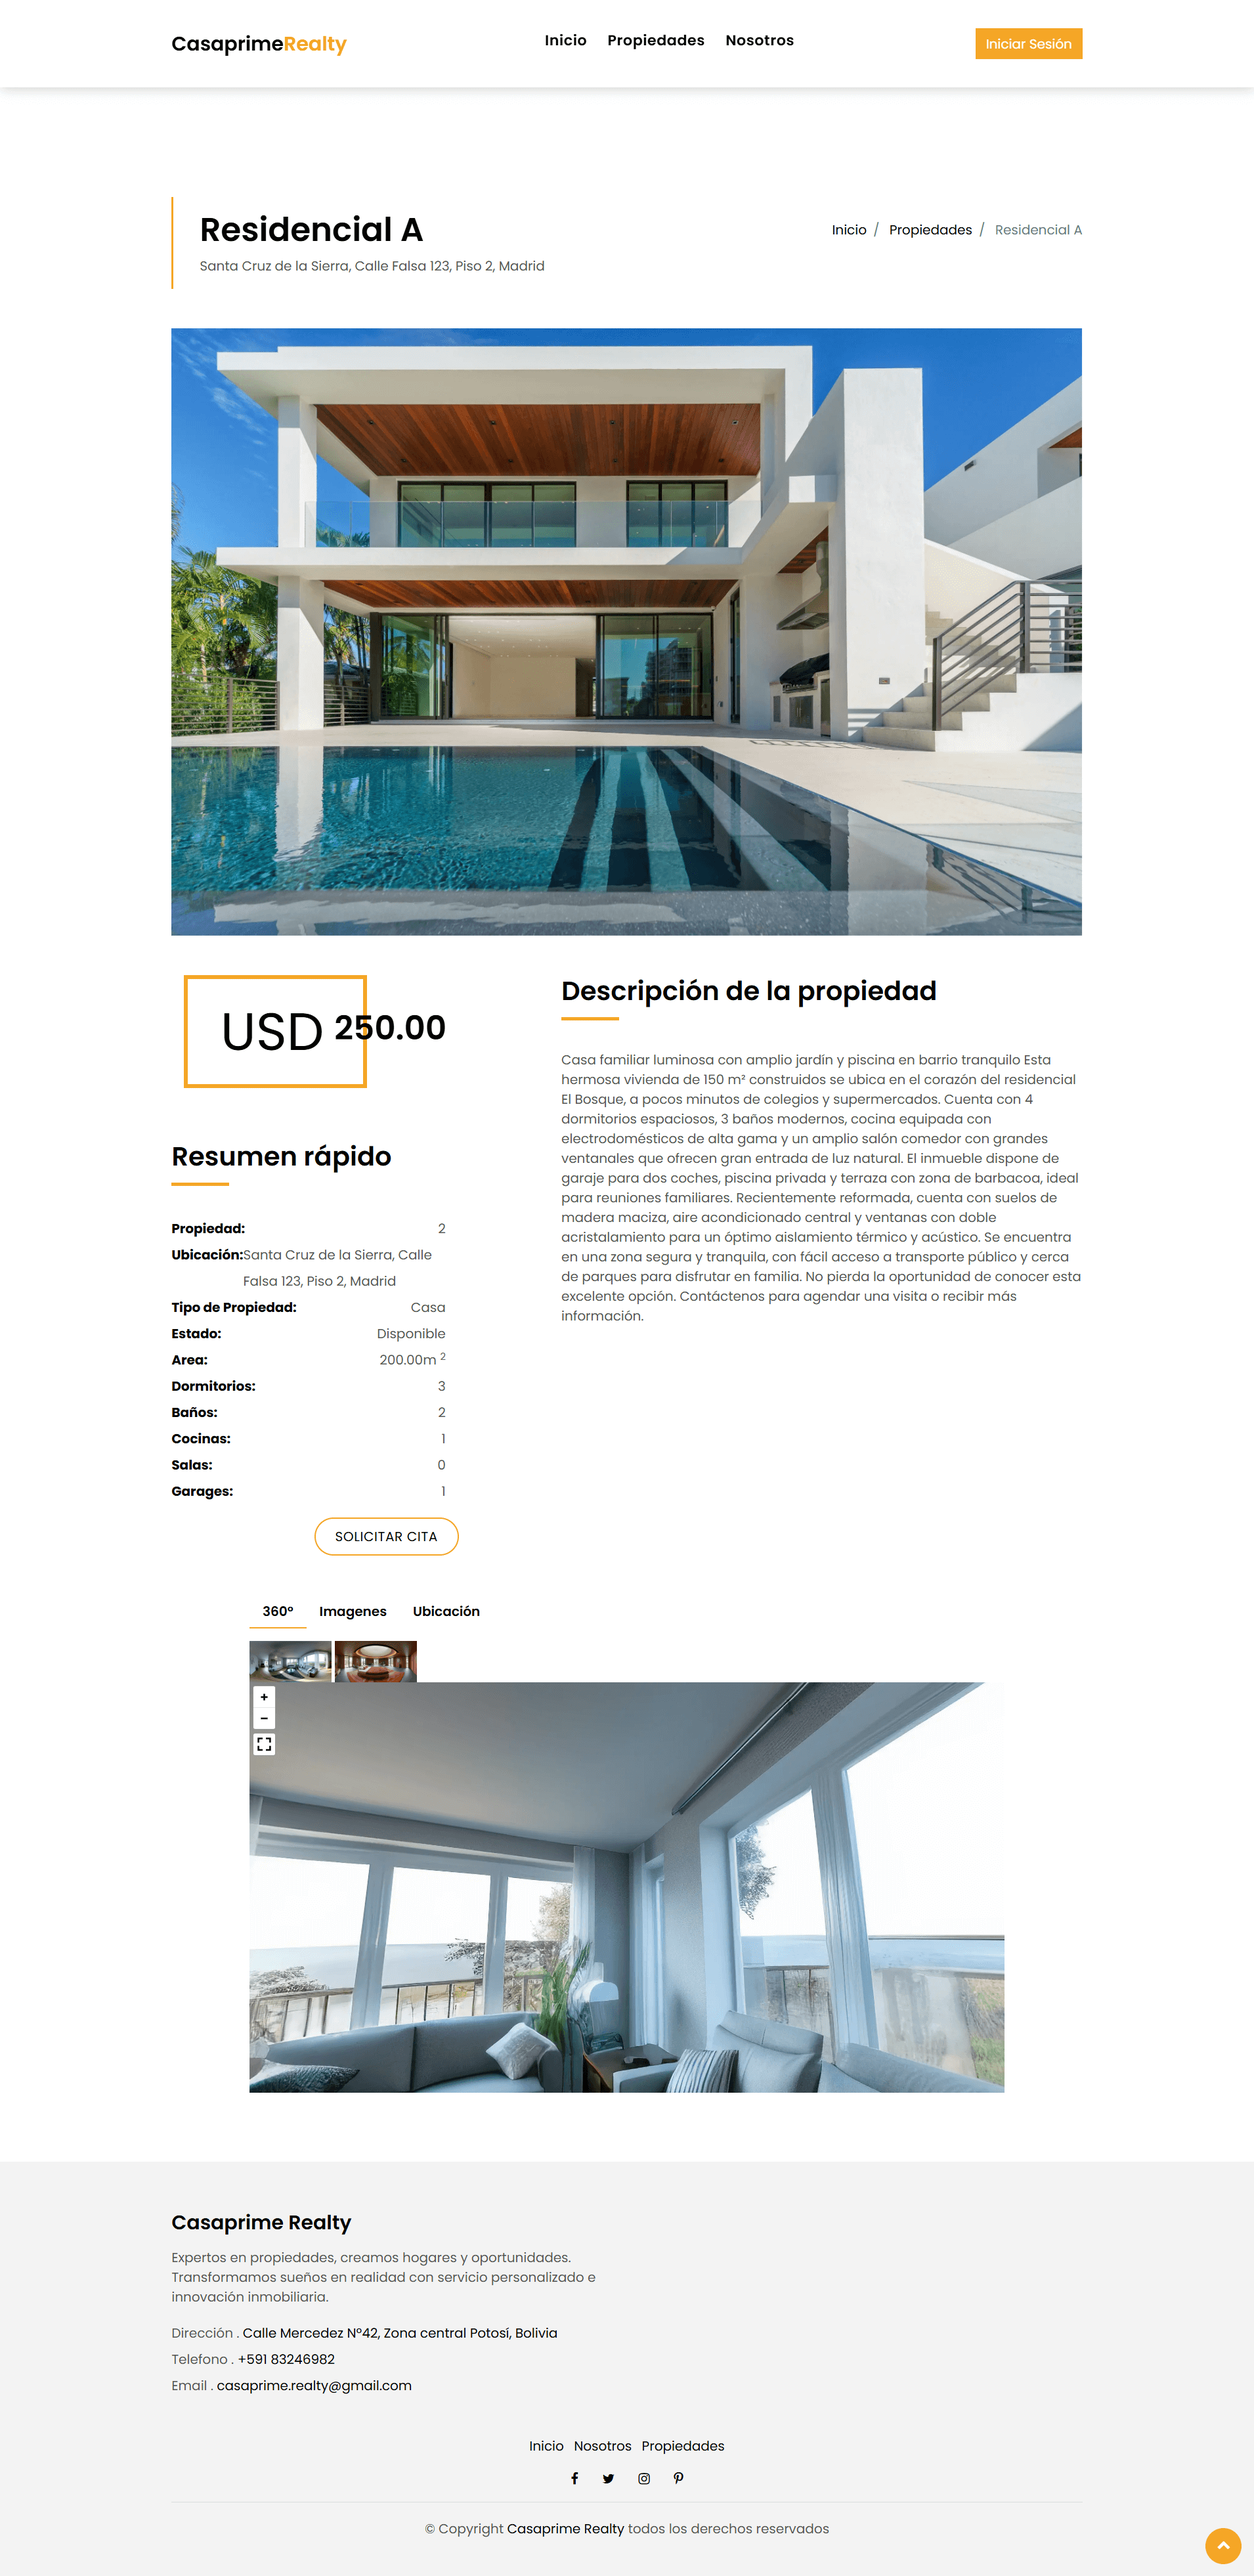
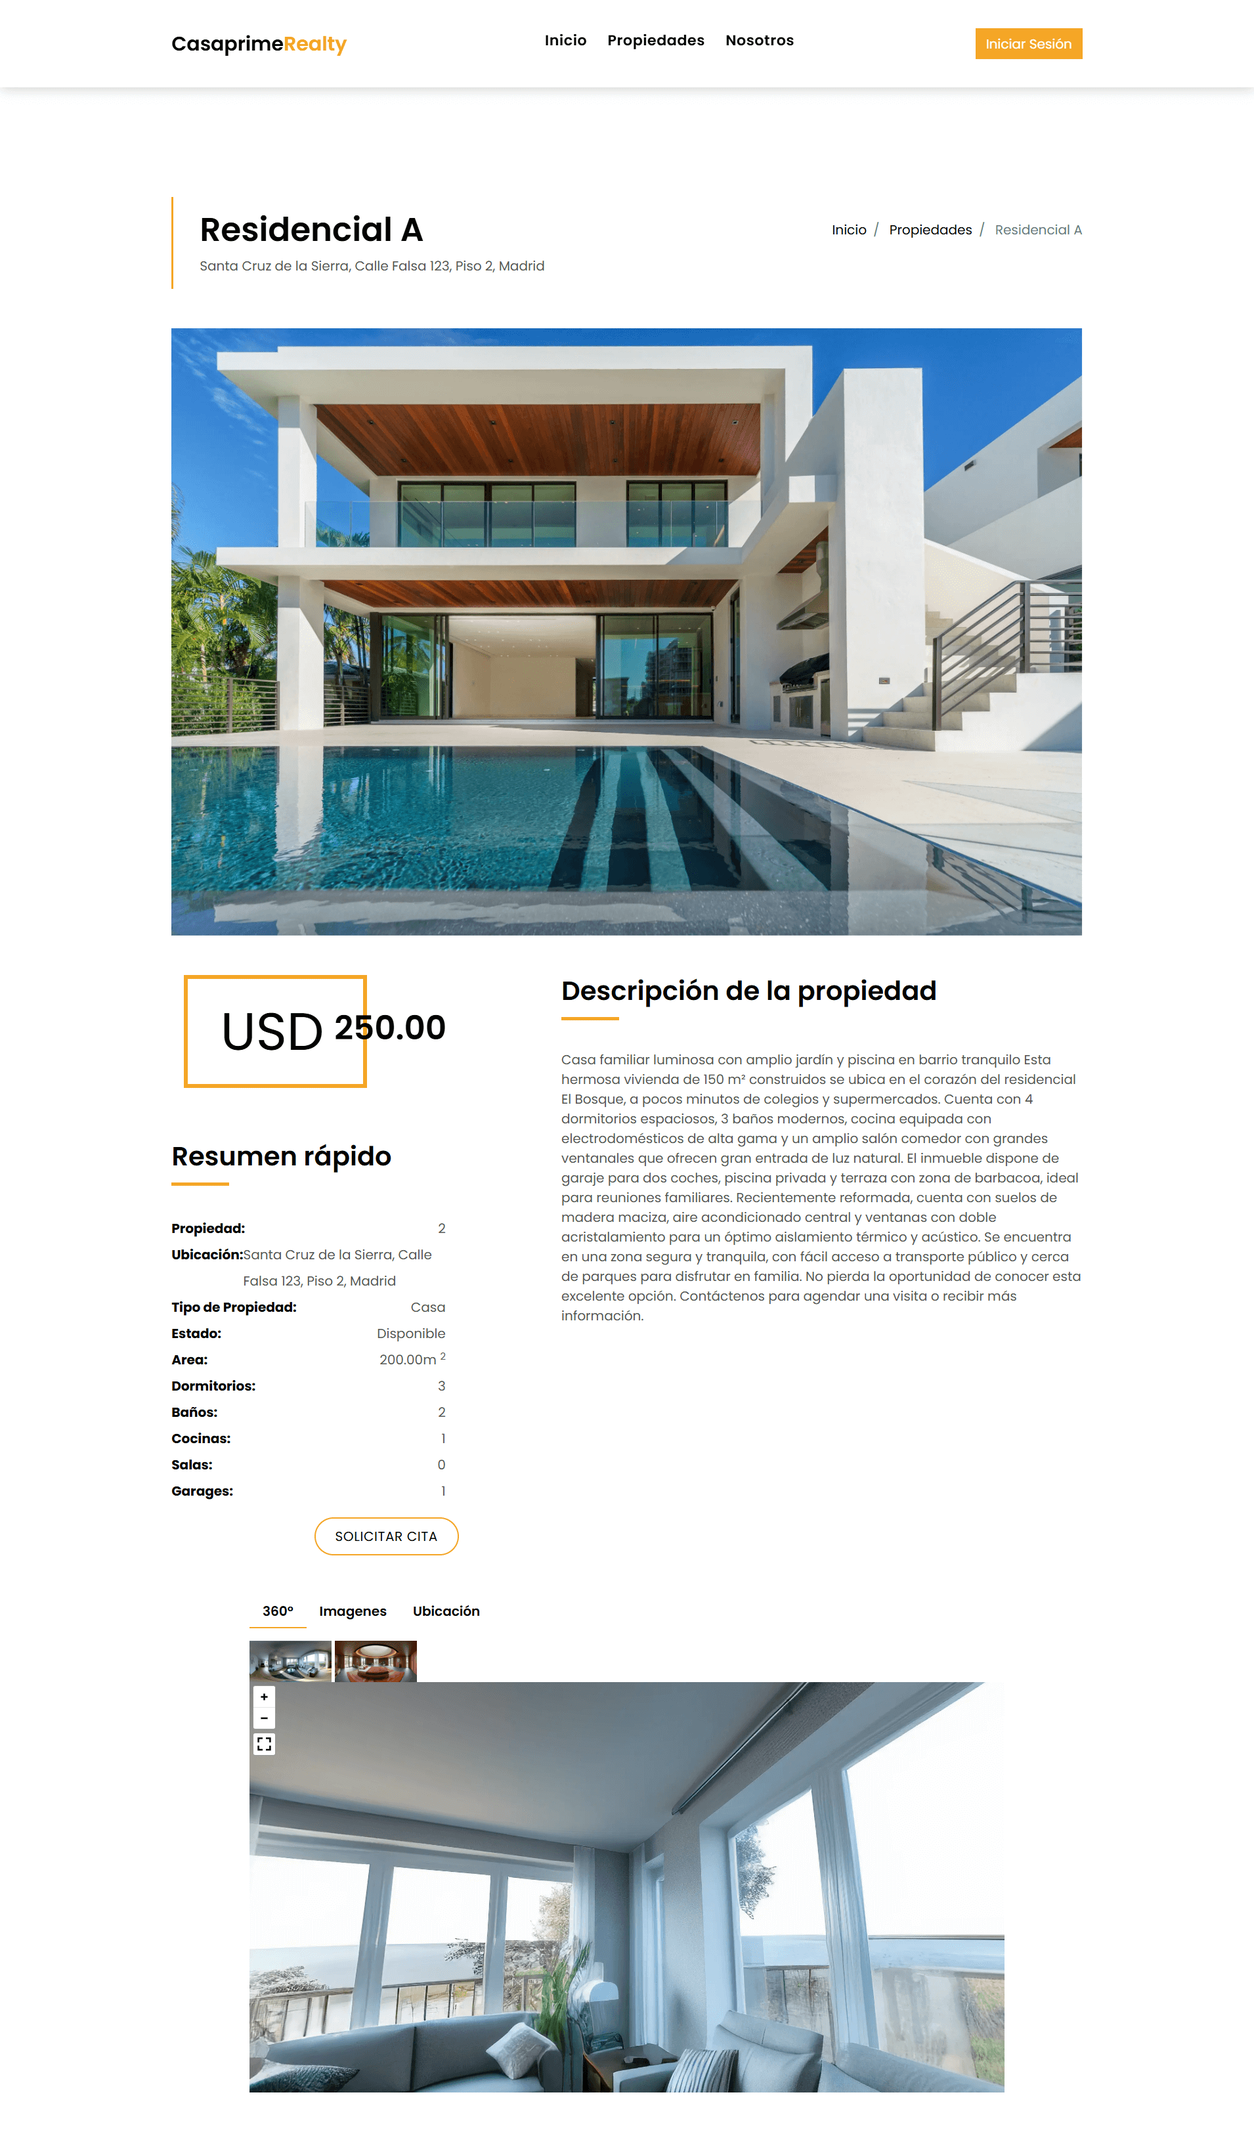
fix: Eliminar contenido sospechoso y ajustar la tabla de contenidos en el README

diff --git a/README.md b/README.md
@@ -1,26 +1,26 @@
-[⚠ Suspicious Content] # 📌 🏠 CasaPrime Realty
+📌 🏠 CasaPrime Realty
 
 > Sistema integral de gestión inmobiliaria
 
-![Banner del Proyecto](./assets/banner.png) <!-- opcional -->
+<!--[Banner del Proyecto](./assets/banner.png)  opcional -->
 
 ---
 
 ## 🧭 Tabla de Contenidos
 
-- [📌 Título del Proyecto](#-título-del-proyecto)
+<!-- [📌 Título del Proyecto](#-título-del-proyecto)-->
 - [🧭 Tabla de Contenidos](#-tabla-de-contenidos)
 - [🎯 Descripción General](#-descripción-general)
 - [🚀 Características Principales](#-características-principales)
 - [📸 Galería de Imágenes](#-galería-de-imágenes)
 - [🛠 Tecnologías Utilizadas](#-tecnologías-utilizadas)
 - [🧪 Instalación y Uso](#-instalación-y-uso)
-<!-- [📁 Estructura del Proyecto](#-estructura-del-proyecto)
+<!-- [📄 Licencia](#-licencia)
+- [👨💻 Autor](#-autor)
+- [📁 Estructura del Proyecto](#-estructura-del-proyecto)
 - [🔐 Autenticación y Seguridad](#-autenticación-y-seguridad)
 - [📈 Roadmap / Funcionalidades Futuras](#-roadmap--funcionalidades-futuras)
 - [🤝 Contribuciones](#-contribuciones)-->
-- [📄 Licencia](#-licencia)
-- [👨💻 Autor](#-autor)
 
 ---
 
@@ -52,12 +52,6 @@ Una muestra visual de la aplicación desde las vistas principales hasta el panel
 ### 🏠 Página Principal
 
 ![Home](./public/screens/img-5.png)
-
----
-
-### 🔐 Inicio de Sesión
-
-![Login](./public/screens/img-7.png)
 
 ---
 
